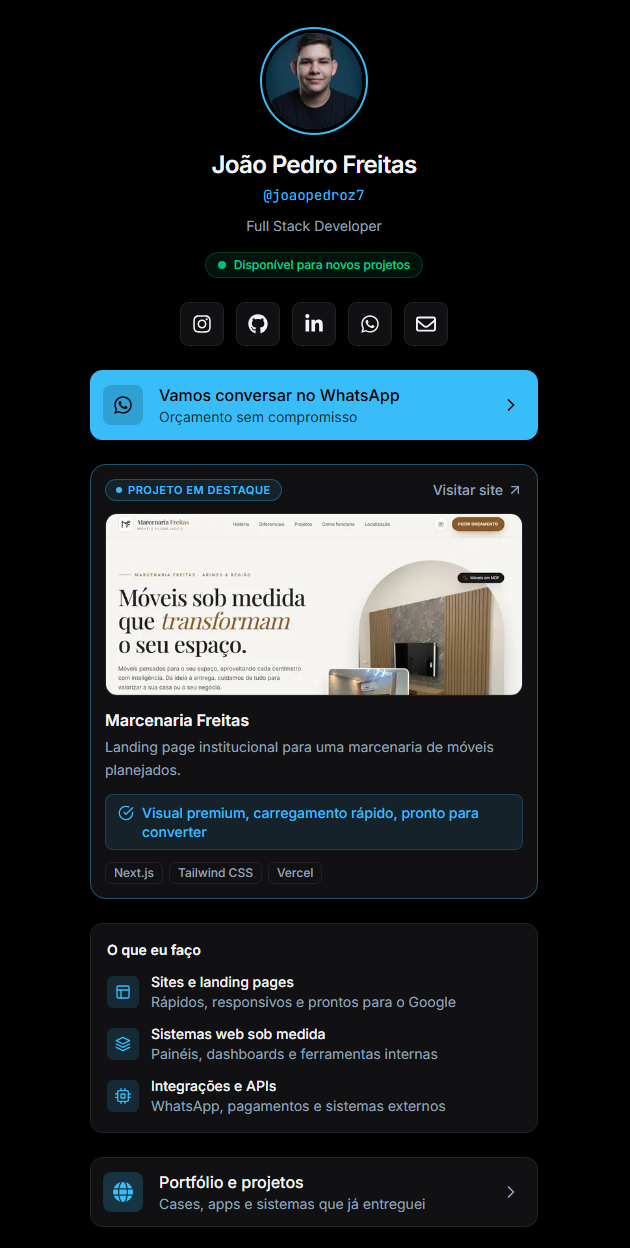
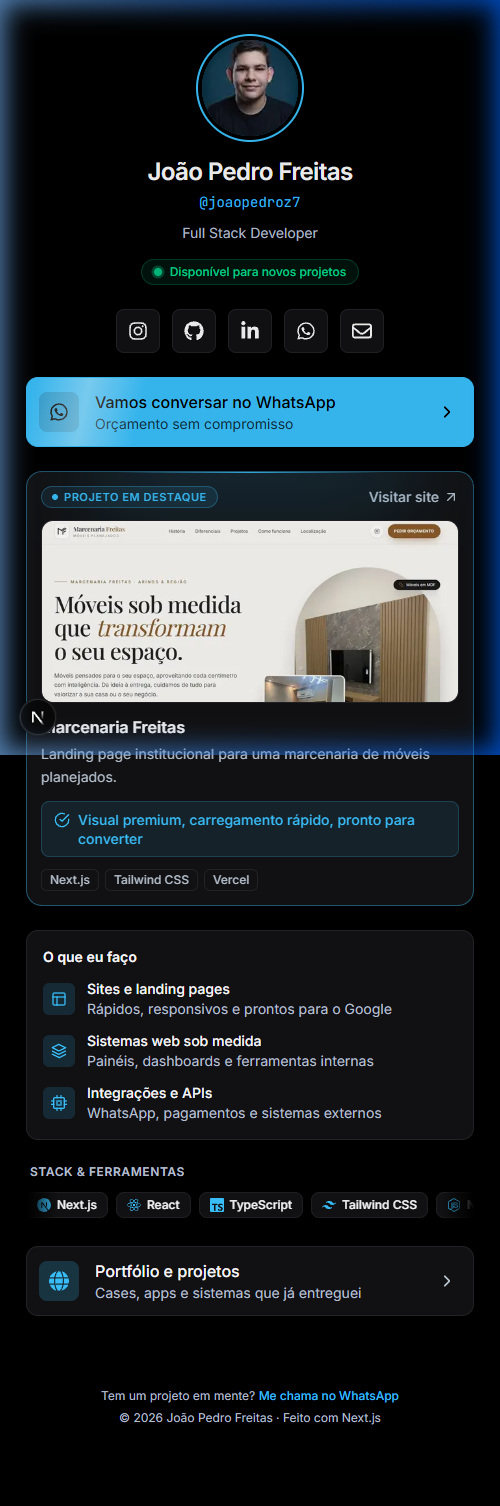
feat: adiciona setas de navegação no stack e potencializa efeito shimmer no WhatsApp

diff --git a/components/TechMarquee.tsx b/components/TechMarquee.tsx
@@ -1,0 +1,88 @@
+"use client";
+
+import { useEffect, useRef, useState } from "react";
+import { FiChevronLeft, FiChevronRight } from "react-icons/fi";
+import { techStack } from "@/data/links";
+
+export function TechMarquee() {
+  const items = techStack;
+  const scrollRef = useRef<HTMLDivElement>(null);
+  const [canScrollLeft, setCanScrollLeft] = useState(false);
+  const [canScrollRight, setCanScrollRight] = useState(true);
+
+  const checkScroll = () => {
+    const el = scrollRef.current;
+    if (!el) return;
+    setCanScrollLeft(el.scrollLeft > 6);
+    setCanScrollRight(el.scrollLeft < el.scrollWidth - el.clientWidth - 6);
+  };
+
+  useEffect(() => {
+    checkScroll();
+    const handleResize = () => checkScroll();
+    window.addEventListener("resize", handleResize);
+    return () => window.removeEventListener("resize", handleResize);
+  }, [items]);
+
+  const handleScroll = (direction: "left" | "right") => {
+    const el = scrollRef.current;
+    if (!el) return;
+    const scrollAmount = 200;
+    el.scrollBy({
+      left: direction === "left" ? -scrollAmount : scrollAmount,
+      behavior: "smooth",
+    });
+  };
+
+  if (!items || items.length === 0) return null;
+
+  return (
+    <section aria-label="Tecnologias que domino" className="flex flex-col gap-2.5">
+      {/* Cabeçalho com título e setinhas de navegação para ver mais */}
+      <div className="flex items-center justify-between px-1">
+        <h2 className="text-xs font-semibold uppercase tracking-wider text-muted">
+          Stack & Ferramentas
+        </h2>
+        <div className="flex items-center gap-1.5">
+          <button
+            type="button"
+            onClick={() => handleScroll("left")}
+            disabled={!canScrollLeft}
+            aria-label="Ver tecnologias anteriores"
+            className="flex size-7 items-center justify-center rounded-lg border border-border bg-card text-muted transition-colors hover:border-accent hover:text-accent disabled:opacity-25 disabled:pointer-events-none focus-visible:outline-none focus-visible:ring-2 focus-visible:ring-accent"
+          >
+            <FiChevronLeft className="size-4" />
+          </button>
+          <button
+            type="button"
+            onClick={() => handleScroll("right")}
+            disabled={!canScrollRight}
+            aria-label="Ver mais tecnologias"
+            className="flex size-7 items-center justify-center rounded-lg border border-border bg-card text-muted transition-colors hover:border-accent hover:text-accent disabled:opacity-25 disabled:pointer-events-none focus-visible:outline-none focus-visible:ring-2 focus-visible:ring-accent"
+          >
+            <FiChevronRight className="size-4" />
+          </button>
+        </div>
+      </div>
+
+      {/* Carrossel rolável suave sem cortes nos itens */}
+      <div className="relative w-full">
+        <div
+          ref={scrollRef}
+          onScroll={checkScroll}
+          className="flex items-center gap-2 overflow-x-auto py-1 scroll-smooth [-ms-overflow-style:none] [scrollbar-width:none] [&::-webkit-scrollbar]:hidden"
+        >
+          {items.map(({ name, icon: Icon }) => (
+            <div
+              key={name}
+              className="flex shrink-0 items-center gap-2 rounded-lg border border-border bg-card px-3 py-1.5 text-xs font-medium text-fg shadow-sm transition-colors hover:border-accent/60"
+            >
+              <Icon aria-hidden="true" className="size-3.5 text-accent" />
+              <span>{name}</span>
+            </div>
+          ))}
+        </div>
+      </div>
+    </section>
+  );
+}

diff --git a/components/FeaturedProjectCard.tsx b/components/FeaturedProjectCard.tsx
@@ -21,8 +21,18 @@ export function FeaturedProjectCard({
       href={withUtm(href, noUtm)}
       aria-label={`${badge}: ${title} — ${ctaText}`}
       {...(external && { target: "_blank", rel: "noopener noreferrer" })}
-      className="group block rounded-2xl border border-accent/40 bg-card p-3.5 transition duration-150 ease-out hover:-translate-y-px hover:border-accent focus-visible:outline-none focus-visible:ring-2 focus-visible:ring-accent focus-visible:ring-offset-2 focus-visible:ring-offset-bg"
+      className="group relative overflow-hidden block rounded-2xl border border-accent/40 bg-card p-3.5 transition duration-150 ease-out hover:-translate-y-px hover:border-accent focus-visible:outline-none focus-visible:ring-2 focus-visible:ring-accent focus-visible:ring-offset-2 focus-visible:ring-offset-bg"
     >
+      {/* Spotlight Glow de Topo */}
+      <span
+        aria-hidden="true"
+        className="pointer-events-none absolute -top-12 left-1/2 -translate-x-1/2 h-24 w-3/4 rounded-full bg-accent/15 blur-2xl transition-all duration-300 group-hover:bg-accent/25"
+      />
+      {/* Feixe de luz na borda superior (Border Beam Spotlight) */}
+      <span
+        aria-hidden="true"
+        className="pointer-events-none absolute -top-px left-1/2 -translate-x-1/2 h-[2px] w-3/5 bg-gradient-to-r from-transparent via-accent to-transparent opacity-90 transition-all duration-300 group-hover:w-4/5 group-hover:opacity-100"
+      />
       <span className="mb-3 flex items-center justify-between gap-2">
         <span className="inline-flex items-center gap-1.5 rounded-full border border-accent/30 bg-accent/10 px-2.5 py-0.5 text-[11px] font-semibold uppercase tracking-wider text-accent">
           <span aria-hidden="true" className="size-1.5 rounded-full bg-accent" />

diff --git a/components/LinkCard.tsx b/components/LinkCard.tsx
@@ -3,7 +3,7 @@ import type { LinkItem } from "@/data/links";
 import { isExternal, withUtm } from "@/lib/utm";
 
 const base =
-  "group flex items-center gap-4 rounded-xl border p-3 pr-4 transition duration-150 ease-out hover:-translate-y-px focus-visible:outline-none focus-visible:ring-2 focus-visible:ring-accent focus-visible:ring-offset-2 focus-visible:ring-offset-bg";
+  "group relative overflow-hidden flex items-center gap-4 rounded-xl border p-3 pr-4 transition duration-150 ease-out hover:-translate-y-px focus-visible:outline-none focus-visible:ring-2 focus-visible:ring-accent focus-visible:ring-offset-2 focus-visible:ring-offset-bg";
 
 const styles = {
   default: {
@@ -13,7 +13,7 @@ const styles = {
     chevron: "text-muted group-hover:text-accent",
   },
   primary: {
-    card: "border-accent bg-accent text-on-accent hover:brightness-110",
+    card: "border-accent bg-accent text-on-accent shadow-[0_0_20px_rgba(56,189,248,0.3)] hover:shadow-[0_0_28px_rgba(56,189,248,0.45)] hover:brightness-105",
     icon: "bg-on-accent/15 text-on-accent",
     description: "text-on-accent/75",
     chevron: "text-on-accent",
@@ -39,6 +39,14 @@ export function LinkCard({
       {...(external && { target: "_blank", rel: "noopener noreferrer" })}
       className={`${base} ${border} ${s.card}`}
     >
+      {variant === "primary" && (
+        <span
+          aria-hidden="true"
+          className="pointer-events-none absolute inset-0 overflow-hidden"
+        >
+          <span className="animate-shimmer absolute inset-y-0 w-32 bg-gradient-to-r from-transparent via-white/85 to-transparent blur-[1px]" />
+        </span>
+      )}
       <span
         aria-hidden="true"
         className={`flex size-10 shrink-0 items-center justify-center rounded-lg ${s.icon}`}

diff --git a/data/links.ts b/data/links.ts
@@ -1,13 +1,29 @@
 import type { IconType } from "react-icons";
 import {
+  FaDocker,
+  FaGitAlt,
   FaGithub,
   FaGlobe,
   FaInstagram,
   FaLinkedinIn,
+  FaNodeJs,
+  FaReact,
   FaRegEnvelope,
   FaWhatsapp,
 } from "react-icons/fa6";
 import { FiCpu, FiLayers, FiLayout } from "react-icons/fi";
+import {
+  SiNestjs,
+  SiNextdotjs,
+  SiPostgresql,
+  SiTailwindcss,
+  SiTypescript,
+} from "react-icons/si";
+
+export type TechItem = {
+  name: string;
+  icon: IconType;
+};
 
 export type Profile = {
   name: string;
@@ -117,4 +133,16 @@ export const links: LinkItem[] = [
     href: "https://seudominio.com",
     icon: FaGlobe,
   },
+];
+
+export const techStack: TechItem[] = [
+  { name: "Next.js", icon: SiNextdotjs },
+  { name: "React", icon: FaReact },
+  { name: "TypeScript", icon: SiTypescript },
+  { name: "Tailwind CSS", icon: SiTailwindcss },
+  { name: "Node.js", icon: FaNodeJs },
+  { name: "NestJS", icon: SiNestjs },
+  { name: "PostgreSQL", icon: SiPostgresql },
+  { name: "Docker", icon: FaDocker },
+  { name: "Git", icon: FaGitAlt },
 ];

diff --git a/app/globals.css b/app/globals.css
@@ -30,10 +30,45 @@ body {
   -webkit-tap-highlight-color: transparent;
 }
 
+@keyframes shimmer {
+  0% {
+    transform: translateX(-160%) skewX(-20deg);
+  }
+  32%, 100% {
+    transform: translateX(280%) skewX(-20deg);
+  }
+}
+
+.animate-shimmer {
+  animation: shimmer 2.8s cubic-bezier(0.4, 0, 0.2, 1) infinite;
+}
+
+@keyframes marquee {
+  from {
+    transform: translateX(0);
+  }
+  to {
+    transform: translateX(-50%);
+  }
+}
+
+.animate-marquee {
+  display: flex;
+  width: max-content;
+  animation: marquee 24s linear infinite;
+  will-change: transform;
+}
+
+.animate-marquee:hover {
+  animation-play-state: paused;
+}
+
 @media (prefers-reduced-motion: reduce) {
   *,
   *::before,
   *::after {
     transition-duration: 0.01ms !important;
+    animation-duration: 0.01ms !important;
+    animation-iteration-count: 1 !important;
   }
 }

diff --git a/app/page.tsx b/app/page.tsx
@@ -4,7 +4,15 @@ import { LinkCard } from "@/components/LinkCard";
 import { Profile } from "@/components/Profile";
 import { ServicesSection } from "@/components/ServicesSection";
 import { SocialRow } from "@/components/SocialRow";
-import { cta, featuredProject, links, profile, services, socials } from "@/data/links";
+import { TechMarquee } from "@/components/TechMarquee";
+import {
+  cta,
+  featuredProject,
+  links,
+  profile,
+  services,
+  socials,
+} from "@/data/links";
 
 export default function Home() {
   return (
@@ -14,6 +22,7 @@ export default function Home() {
       <LinkCard {...cta} />
       <FeaturedProjectCard {...featuredProject} />
       <ServicesSection items={services} />
+      <TechMarquee />
       <ul className="flex flex-col gap-3" aria-label="Links">
         {links.map((link) => (
           <li key={link.href}>

diff --git a/README.md b/README.md
@@ -67,7 +67,8 @@ link-in-bio/
 │   ├── LinkCard.tsx             # Card de link com variantes de destaque
 │   ├── Profile.tsx              # Cabeçalho, avatar e selo de disponibilidade
 │   ├── ServicesSection.tsx      # Card compacto com serviços oferecidos
-│   └── SocialRow.tsx            # Linha de botões das redes sociais
+│   ├── SocialRow.tsx            # Linha de botões das redes sociais
+│   └── TechMarquee.tsx          # Carrossel contínuo de tecnologias e ferramentas
 ├── data/
 │   └── links.ts                 # Conteúdo da aplicação tipado e centralizado
 ├── docs/
